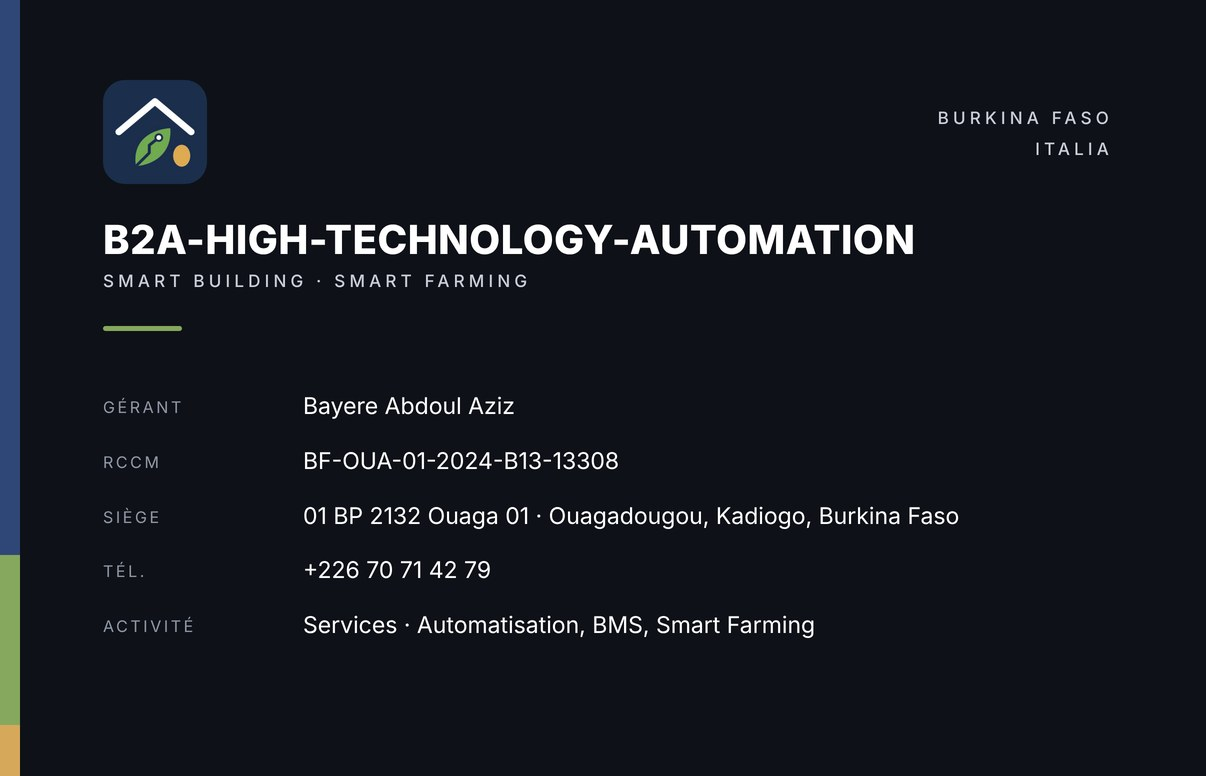
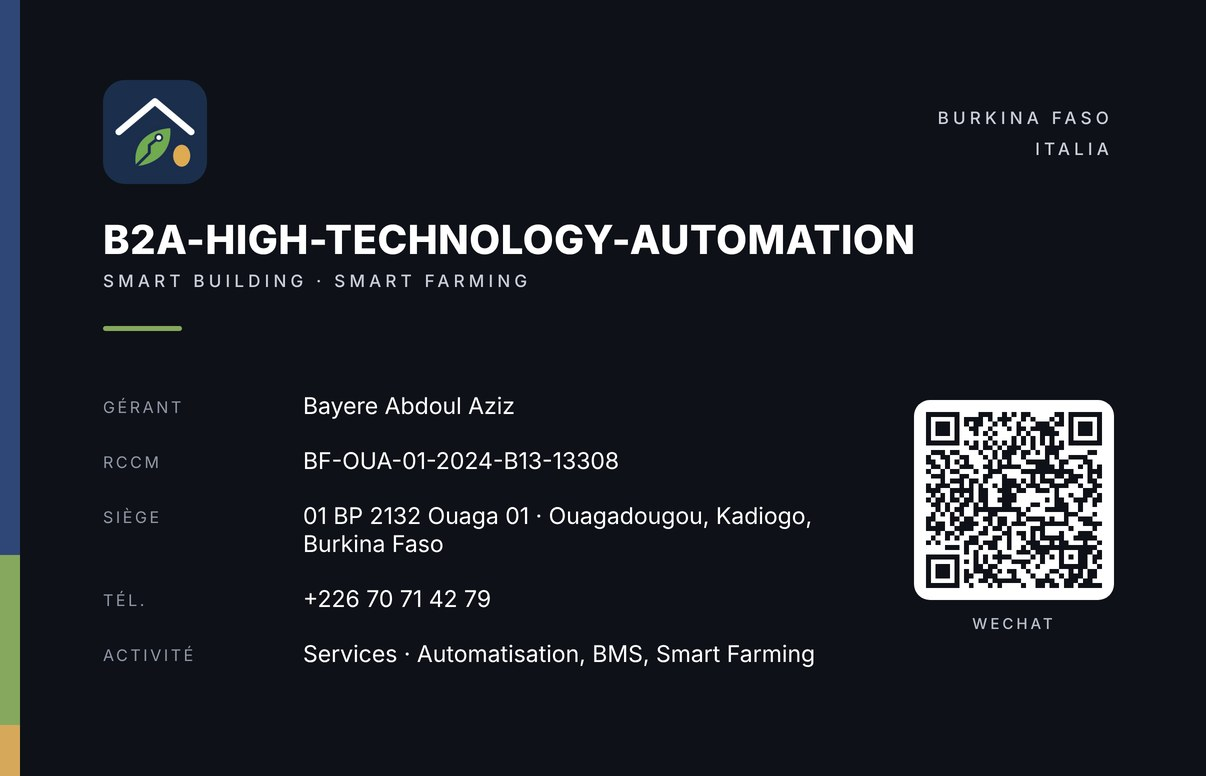
Biglietto: contatto WeChat (pagina, vCard, retro stampato)
Claude-Session: https://claude.ai/code/session_01PBJ3CkzroT2PdeUQ787EmZ

diff --git a/carta/index.html b/carta/index.html
@@ -40,6 +40,7 @@ h1{font-size:24px;line-height:1.15;margin:0}
 .co dl{display:grid;grid-template-columns:90px 1fr;gap:8px 12px;margin:0;font-size:14px}
 .co dt{color:var(--dim);text-transform:uppercase;font-size:11px;letter-spacing:.14em;padding-top:3px}
 .co dd{margin:0;overflow-wrap:anywhere}
+.wtxt{color:var(--muted);font-size:14px;margin:6px 0 12px}.wimg{display:block;width:200px;max-width:100%;margin:0 auto;border-radius:12px;background:#fff}
 footer{text-align:center;color:var(--dim);font-size:12px;letter-spacing:.2em}
 a:focus-visible,.flip:focus-visible{outline:3px solid var(--gold);outline-offset:3px}
 @media (prefers-reduced-motion:reduce){.flip-in{transition:none}}
@@ -70,6 +71,7 @@ a:focus-visible,.flip:focus-visible{outline:3px solid var(--gold);outline-offset
     <a class="btn" href="tel:+22670714279"><svg viewBox="0 0 24 24"><path d="M22 16.9v3a2 2 0 0 1-2.2 2 19.8 19.8 0 0 1-8.6-3.1 19.5 19.5 0 0 1-6-6A19.8 19.8 0 0 1 2.1 4.2 2 2 0 0 1 4.1 2h3a2 2 0 0 1 2 1.7c.1 1 .4 1.9.7 2.8a2 2 0 0 1-.5 2.1L8 9.9a16 16 0 0 0 6 6l1.3-1.3a2 2 0 0 1 2.1-.4c.9.3 1.8.6 2.8.7a2 2 0 0 1 1.7 2z"/></svg><span><span class="l-call">Chiama</span> BF<small>+226 70 71 42 79</small></span></a>
     <a class="btn" href="https://wa.me/393341728026"><svg viewBox="0 0 24 24"><path d="M21 11.5a8.4 8.4 0 0 1-12.4 7.4L3 21l2.1-5.4A8.5 8.5 0 1 1 21 11.5z"/></svg><span>WhatsApp IT<small>+39 334 172 8026</small></span></a>
     <a class="btn" href="https://wa.me/22670714279"><svg viewBox="0 0 24 24"><path d="M21 11.5a8.4 8.4 0 0 1-12.4 7.4L3 21l2.1-5.4A8.5 8.5 0 1 1 21 11.5z"/></svg><span>WhatsApp BF<small>+226 70 71 42 79</small></span></a>
+    <a class="btn wide" href="https://u.wechat.com/kEe7oIopVgXhHX-pkGMKoQU?s=2"><svg viewBox="0 0 24 24"><path d="M9.5 4C5.4 4 2 6.8 2 10.2c0 1.9 1 3.6 2.7 4.7L4 17l2.6-1.3c.9.3 1.9.4 2.9.4"/><path d="M15.5 9c-3.6 0-6.5 2.4-6.5 5.3s2.9 5.3 6.5 5.3c.8 0 1.6-.1 2.3-.4L20 20.5l-.6-2a5 5 0 0 0 2.6-4.2C22 11.4 19.1 9 15.5 9z"/></svg><span>WeChat<small>B2A-Smart Building · Burkina Faso</small></span></a>
     <a class="btn wide" href="mailto:Azizyou2005@yahoo.fr"><svg viewBox="0 0 24 24"><rect x="2.5" y="5" width="19" height="14" rx="2"/><path d="m3 6 9 7 9-7"/></svg><span>E-mail<small>Azizyou2005@yahoo.fr</small></span></a>
     <a class="btn wide" href="https://azizyou2005.github.io/b2a-smart-farming/"><svg viewBox="0 0 24 24"><path d="M3 11 12 3l9 8"/><path d="M5 10v10h14V10"/></svg><span>App B2A Smart Farming<small id="appTxt">Gratuita, funziona senza internet</small></span></a>
   </div>
@@ -84,6 +86,11 @@ a:focus-visible,.flip:focus-visible{outline:3px solid var(--gold);outline-offset
       <dt>Tel.</dt><dd>+226 70 71 42 79</dd>
     </dl>
   </section>
+  <section class="co wc">
+    <h2>WeChat</h2>
+    <p class="wtxt" id="wtxt">Inquadra questo codice con WeChat (Scansiona) per aggiungermi.</p>
+    <img src="wechat.png" alt="QR code WeChat" class="wimg">
+  </section>
   <footer>B2A · BURKINA FASO · ITALIA</footer>
 </main>
 <script>
@@ -96,6 +103,7 @@ if((navigator.language||"").toLowerCase().startsWith("fr")){
   document.querySelectorAll(".l-call").forEach(e=>e.textContent="Appeler");
   document.getElementById("appTxt").textContent="Gratuite, fonctionne sans internet";
   document.getElementById("l-siege").textContent="Siège";
+  document.getElementById("wtxt").textContent="Scannez ce code avec WeChat (Scan) pour m'ajouter.";
   f.setAttribute("aria-label","Retourner la carte");
 }
 </script>
